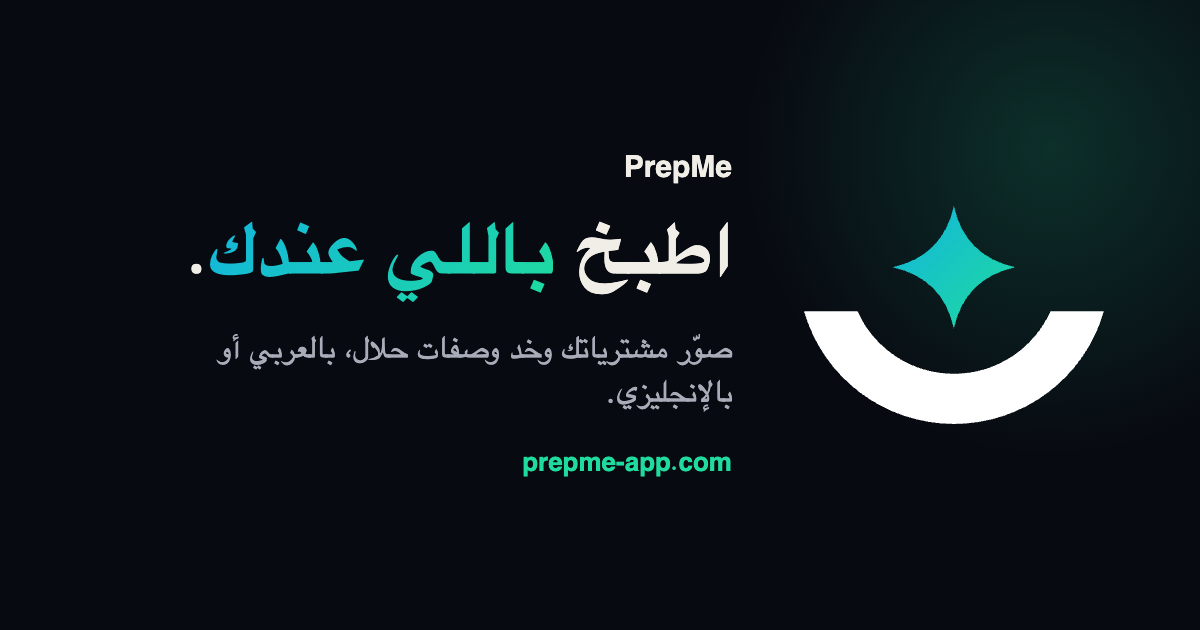
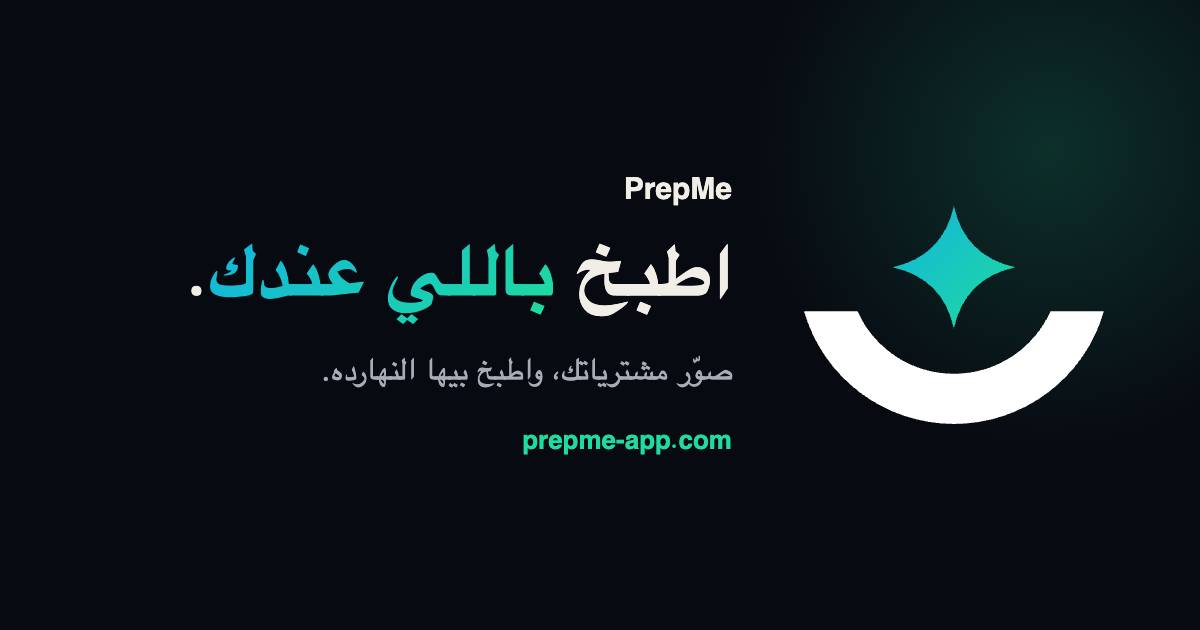
feat: shorter share teaser
The share image and og:description now say "Snap your groceries. Cook tonight." / "صوّر مشترياتك، واطبخ بيها النهارده." The image URLs carry ?v=2 so WhatsApp and others fetch the new card.

Changed region(s): [[0.1542, 0.3619, 0.6167, 0.5127], [0.185, 0.5429, 0.6167, 0.754], [0.5242, 0.2413, 0.6167, 0.3317]]

diff --git a/ar/index.html b/ar/index.html
@@ -13,11 +13,11 @@
 <link rel="icon" href="../assets/logo.svg" type="image/svg+xml">
 <link rel="apple-touch-icon" href="/apple-touch-icon.png">
 <meta property="og:title" content="PrepMe – اطبخ باللي عندك">
-<meta property="og:description" content="صوّر الفاتورة أو مشترياتك واحصل على وصفات تطبخها النهارده، بالعربي أو بالإنجليزي.">
+<meta property="og:description" content="صوّر مشترياتك، واطبخ بيها النهارده.">
 <meta property="og:url" content="https://prepme-app.com/ar/">
 <meta property="og:type" content="website">
 <meta property="og:locale" content="ar_AR">
-<meta property="og:image" content="https://prepme-app.com/assets/og-ar.png">
+<meta property="og:image" content="https://prepme-app.com/assets/og-ar.png?v=2">
 <meta property="og:image:width" content="1200">
 <meta property="og:image:height" content="630">
 <meta property="og:image:alt" content="PrepMe: اطبخ باللي عندك">

diff --git a/index.html b/index.html
@@ -13,10 +13,10 @@
 <link rel="icon" href="assets/logo.svg" type="image/svg+xml">
 <link rel="apple-touch-icon" href="/apple-touch-icon.png">
 <meta property="og:title" content="PrepMe – cook with what you already have">
-<meta property="og:description" content="Scan a receipt or your groceries and get recipes you can cook tonight, in Arabic or English.">
+<meta property="og:description" content="Snap your groceries. Cook tonight.">
 <meta property="og:url" content="https://prepme-app.com/">
 <meta property="og:type" content="website">
-<meta property="og:image" content="https://prepme-app.com/assets/og.png">
+<meta property="og:image" content="https://prepme-app.com/assets/og.png?v=2">
 <meta property="og:image:width" content="1200">
 <meta property="og:image:height" content="630">
 <meta property="og:image:alt" content="PrepMe: cook with what you already have">

diff --git a/get/index.html b/get/index.html
@@ -10,9 +10,9 @@
 <link rel="icon" href="../assets/logo.svg" type="image/svg+xml">
 <link rel="apple-touch-icon" href="/apple-touch-icon.png">
 <meta property="og:title" content="Get PrepMe">
-<meta property="og:description" content="Cook with what you already have. Halal recipes in Arabic or English.">
+<meta property="og:description" content="Snap your groceries. Cook tonight.">
 <meta property="og:url" content="https://prepme-app.com/get/">
-<meta property="og:image" content="https://prepme-app.com/assets/og.png">
+<meta property="og:image" content="https://prepme-app.com/assets/og.png?v=2">
 <meta name="twitter:card" content="summary_large_image">
 <link rel="stylesheet" href="../assets/landing.css">
 <script>
